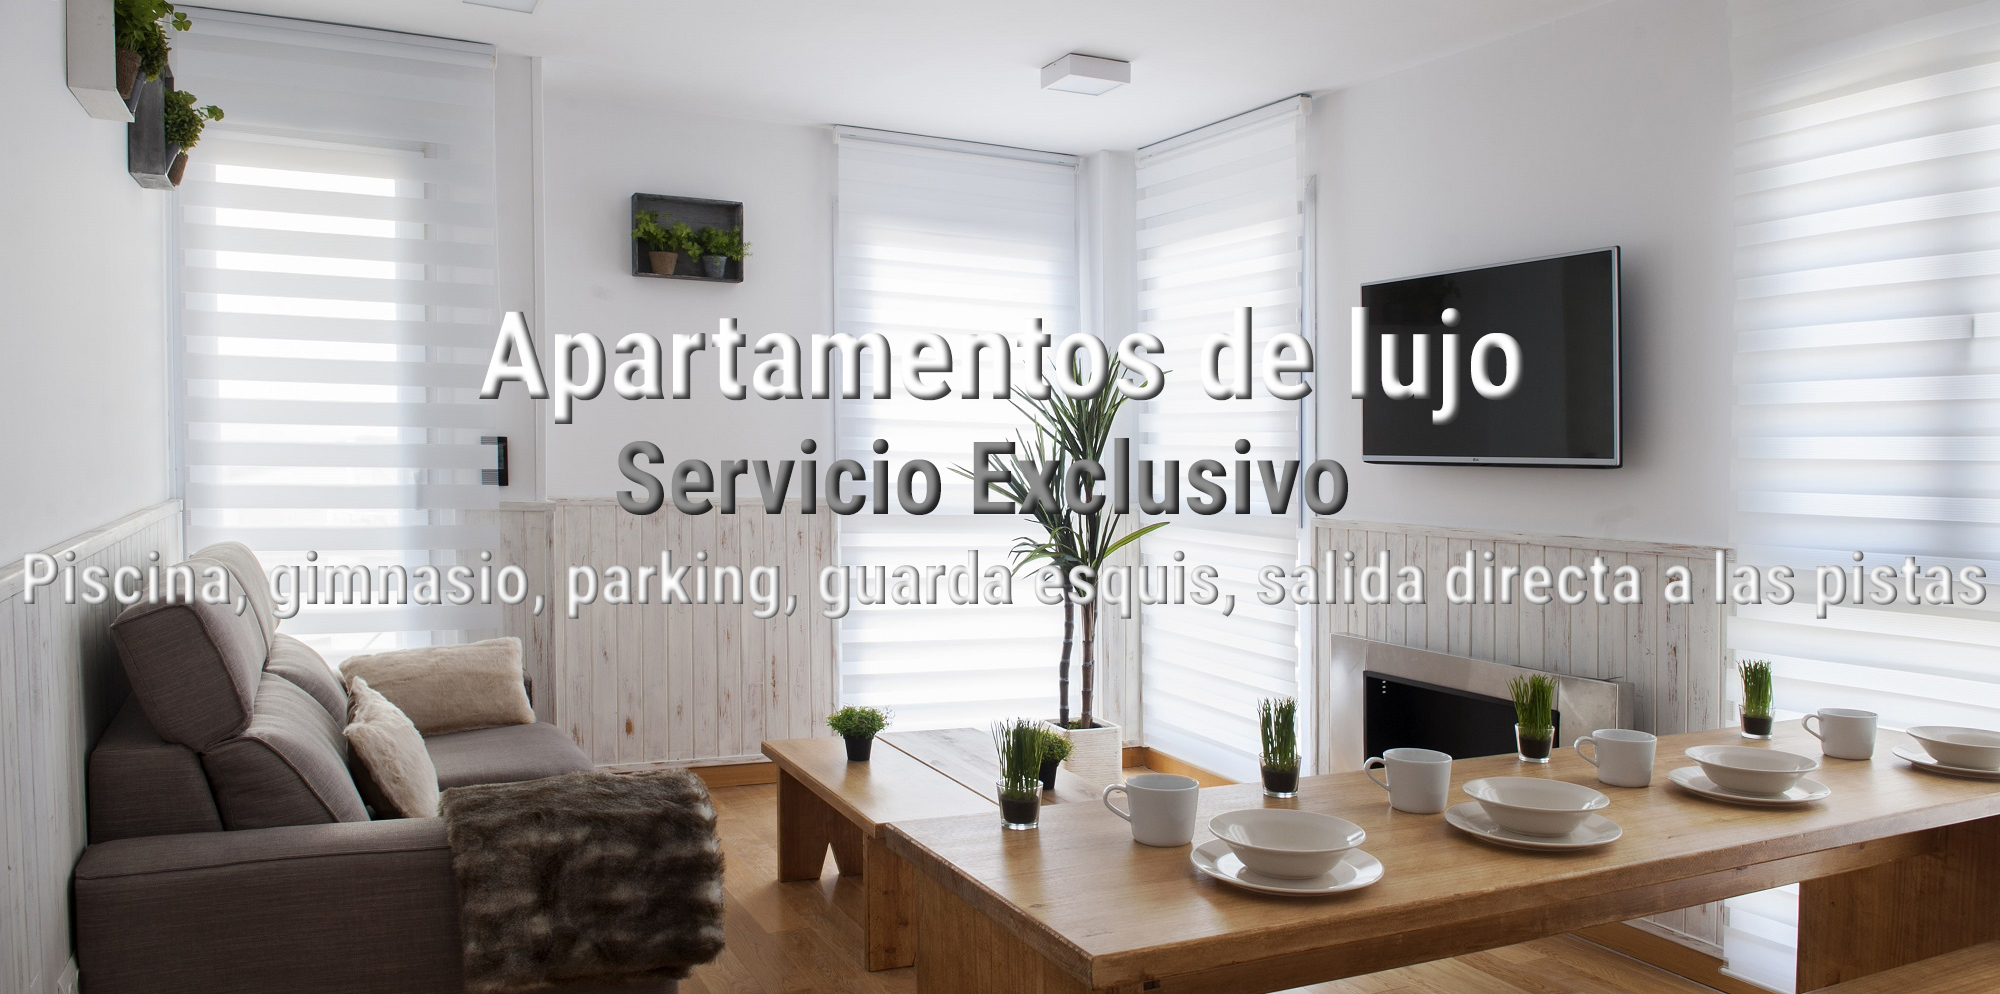
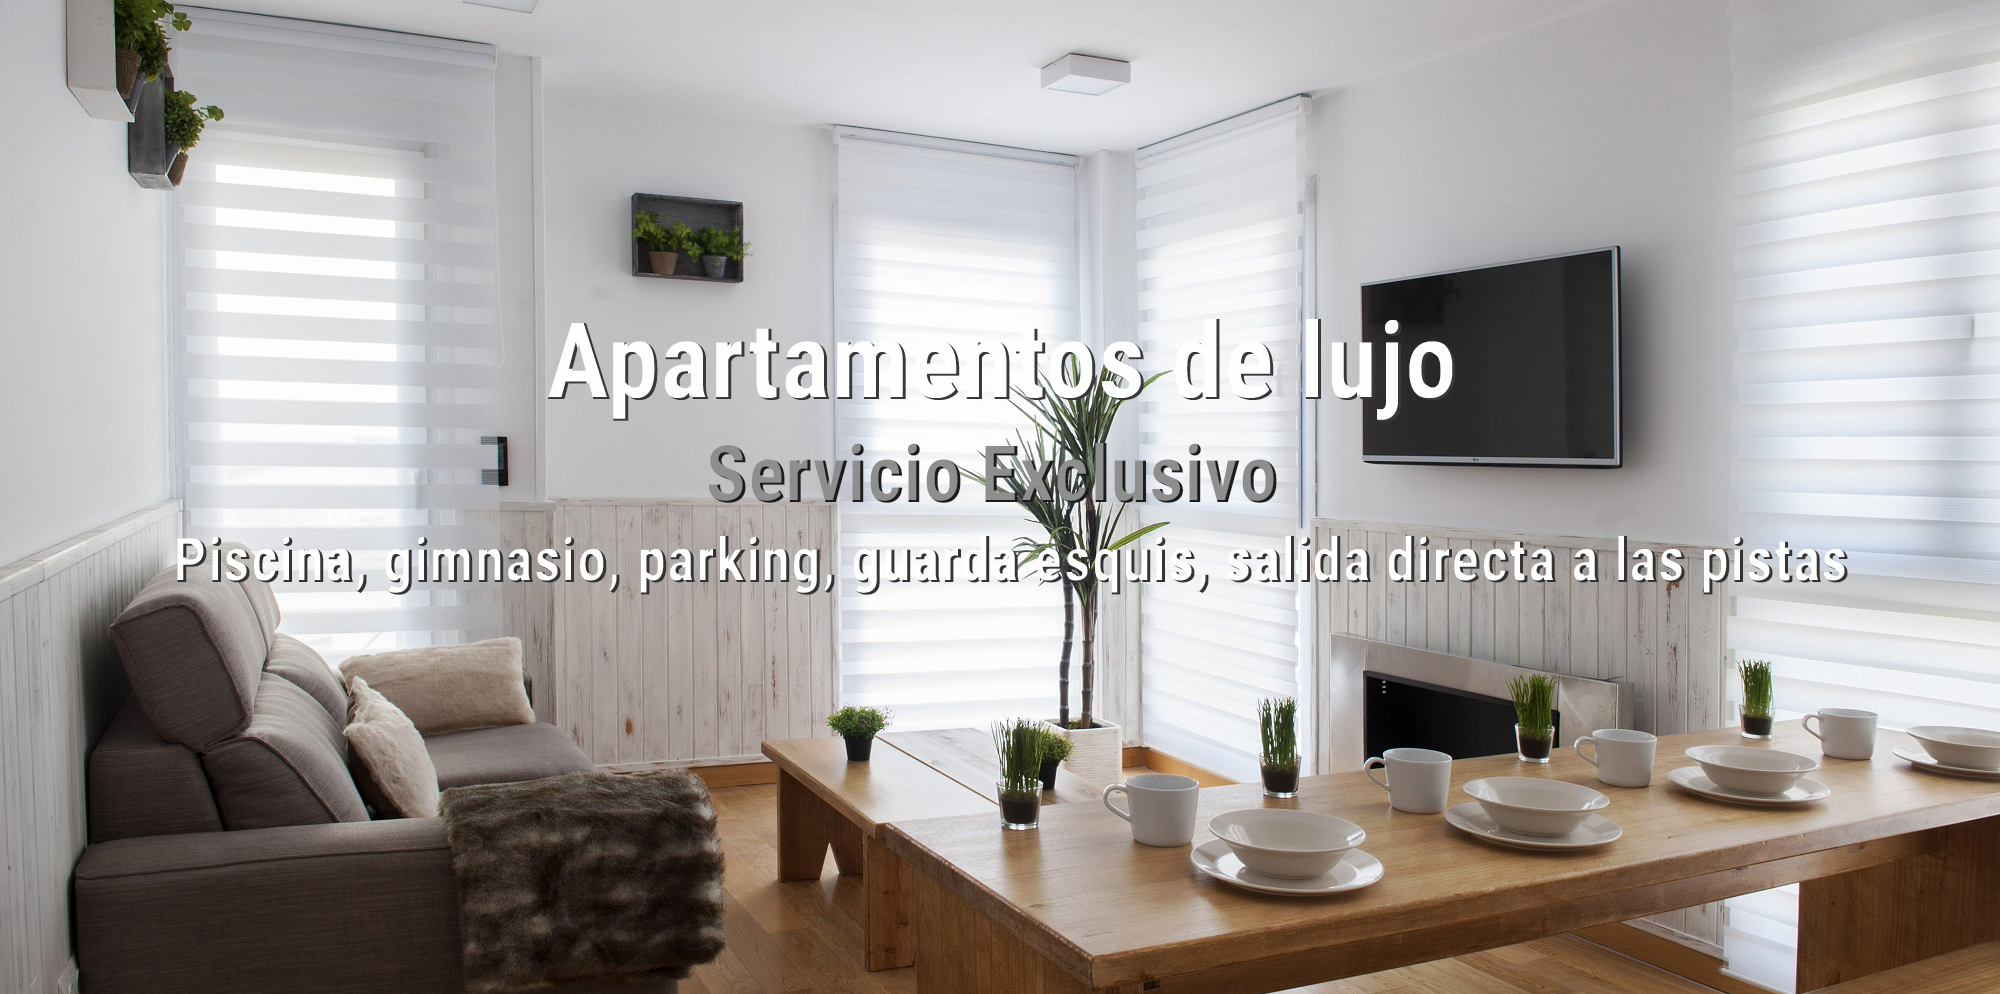
jesus

Changed region(s): [[0.0, 0.4366, 0.992, 0.6237], [0.217, 0.3119, 0.775, 0.4366]]

diff --git a/resources/views/frontend/home.blade.php b/resources/views/frontend/home.blade.php
@@ -14,6 +14,9 @@
 	.hvr-reveal:before{
 		border-color: white!important;
 	}
+	#content{
+		margin-top: -56px!important;
+	}
 	@media (max-width: 768px){ 
 		#primary-menu.style-2 {
 		    background-color: transparent; 
@@ -119,7 +122,7 @@
 	    height: 35px;
 	    background: url('{{ asset('/img/miramarski/iconos/small/sprite-blue.png') }}') -105px -70px;
 	}
-
+	
 	@media only screen and (min-width: 991px) and (max-width: 1222px){ 
 		h1.font-w800.black{
 			font-size: 22px!important;
@@ -130,7 +133,7 @@
 	}
 
 </style>
-<section id="content">
+<section id="content" >
 	
     <div class="content-wrap notoppadding" style="padding-bottom: 0;">
        
@@ -143,7 +146,7 @@
 			</style>
 			
 
-			
+
 			<div class="row clearfix" style="background-color: #3F51B5; background-image: url({{asset('/img/miramarski/esquiadores.png')}}); background-position: left bottom; background-repeat: no-repeat; background-size: 50%;">
    				<div id="close-form-book" style="position: absolute; top: 20px; right: 10px; z-index: 50;  cursor: pointer;">
    					<span class="white text-white"><i class="fa fa-times fa-2x"></i></span>

diff --git a/resources/views/layouts/master.blade.php b/resources/views/layouts/master.blade.php
@@ -127,6 +127,7 @@
 				.imagen-slider{
 					width: 100%;
 					margin-top: -130px!important;
+					max-height: 700px!important
 				}
 			
 			@media (max-width: 767px) {
@@ -158,11 +159,12 @@
 			
 			@include('layouts._header')
 			
-				<img class="imagen-slider" src="{{ asset('/img/miramarski/salon-slider.jpg') }}" alt="texto" />
-				
-				<button class="tp-caption rev-btn  tp-static-layer button button-rounded button-reveal button-large button-green tright  center hvr-grow-shadow menu-booking" style=""> <i class="icon-angle-right"></i><span>SOLICITA TU RESERVA</span> </button>
+<!-- 				<img class="imagen-slider" src="{{ asset('/img/miramarski/salon-slider-2.jpg') }}" alt="texto" />
+				<h2 class="m-b-0">Apartamentos de lujo</h2>
 
-			<!-- @include('frontend.slider') -->
+				<button class="tp-caption rev-btn  tp-static-layer button button-rounded button-reveal button-large button-green tright  center hvr-grow-shadow menu-booking" style=""> <i class="icon-angle-right"></i><span>SOLICITA TU RESERVA</span> </button> -->
+	
+			@include('frontend.slider')
 
 			@yield('content')
 
